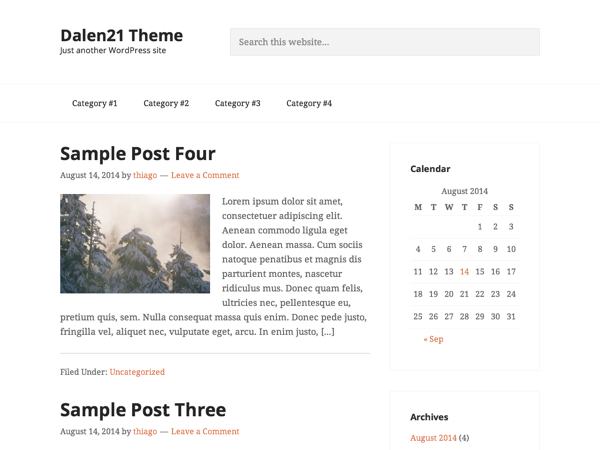
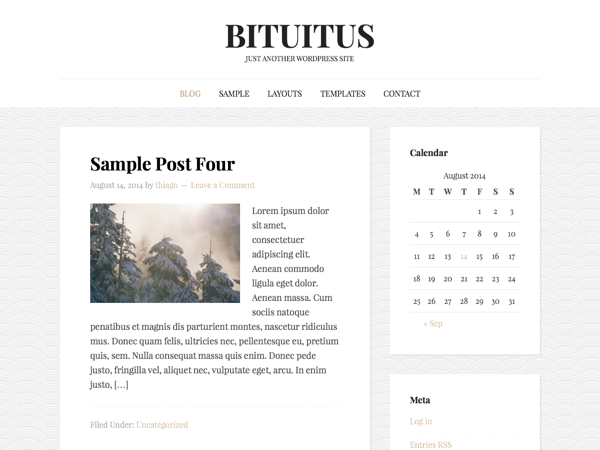
all styles completely done

diff --git a/style.css b/style.css
@@ -16,6 +16,214 @@
  * License URI: http://www.gnu.org/licenses/gpl-2.0.html
  */
 
+/* # Defaults
+---------------------------------------------------------------------------------------------------- */
+
 body {
     text-rendering: optimizeLegibility;
+}
+
+/* # Only Screen ≥ 568px
+---------------------------------------------------------------------------------------------------- */
+
+@media only screen and (min-width: 35.5em) {
+
+    /* ## Defaults
+    --------------------------------------------- */
+    body {
+
+    }
+}
+
+/* # Only Screen ≥ 768px
+---------------------------------------------------------------------------------------------------- */
+
+@media only screen and (min-width: 48em) {
+
+    /* ## Defaults
+    --------------------------------------------- */
+    body {
+        background: #F5F5F5 url("http://www.buzzblog.hercules-design.com/wp-content/themes/BUZZBLOG-theme/images/patterns/pattern1.png");
+        font-size: 18px;
+    }
+
+    .site-header,
+    .nav-primary,
+    .archive-description,
+    .author-box,
+    .entry,
+    .entry-comments,
+    .entry-pings,
+    .comment-respond,
+    .sidebar .widget,
+    .footer-widgets {
+        background: #FFF;
+    }
+
+    .site-header .wrap,
+    .nav-primary .wrap,
+    .sidebar .widget,
+    .footer-widgets {
+        border: none;
+    }
+
+    .nav-primary .wrap {
+        border-top: 1px solid #EEE;
+    }
+
+    .archive-description,
+    .author-box,
+    .entry,
+    .entry-comments,
+    .entry-pings,
+    .comment-respond,
+    .sidebar .widget {
+        -webkit-box-shadow: 3px 3px 1px rgba(0, 0, 0, 0.05);
+        -moz-box-shadow: 3px 3px 1px rgba(0, 0, 0, 0.05);
+        box-shadow: 3px 3px 1px rgba(0, 0, 0, 0.05);
+    }
+
+    .featured-content .entry,
+    .entry-comments .comment-respond {
+        box-shadow: none;
+    }
+
+    .archive-pagination li a {
+        background: #FFF;
+        opacity: 0.85;
+    }
+
+    /* ## Common Classes
+    --------------------------------------------- */
+    .archive-description,
+    .author-box {
+        border: 1px solid #EEE;
+        padding: 40px;
+    }
+
+    /* ## Entries
+    --------------------------------------------- */
+    .entry {
+        margin-bottom: 40px;
+        padding: 50px 60px;
+    }
+
+    /* ## Comments
+    --------------------------------------------- */
+    .entry-comments {
+        padding: 40px;
+    }
+
+    .entry-pings,
+    .comment-respond {
+        padding: 40px 40px 16px;
+    }
+
+    .entry-comments .comment-respond {
+        padding: 0;
+    }
+
+}
+
+/* # Only Screen ≥ 1024px
+---------------------------------------------------------------------------------------------------- */
+
+@media only screen and (min-width: 64em) {
+
+    /* ## Site Containers
+    --------------------------------------------- */
+    .site-inner,
+    .wrap {
+        margin: 0 auto;
+        max-width: 960px;
+        padding-left: 0;
+        padding-right: 0;
+    }
+
+    /* ## Column Widths and Positions
+    --------------------------------------------- */
+    /* ### Content */
+    .content {
+        float: right;
+        width: 620px;
+    }
+
+    .content-sidebar .content {
+        float: left
+    }
+
+    .full-width-content .content {
+        width: 100%
+    }
+
+    /* ### Primary Sidebar */
+    .sidebar-primary {
+        float: right;
+        width: 300px;
+    }
+
+    .sidebar-content .sidebar-primary {
+        float: left
+    }
+
+    /* ## Footer Widgets
+    --------------------------------------------- */
+    .footer-widgets-1,
+    .footer-widgets-2,
+    .footer-widgets-3 {
+        width: 300px
+    }
+
+    .footer-widgets-1 {
+        margin-right: 30px
+    }
+
+    .footer-widgets-1,
+    .footer-widgets-2 {
+        float: left
+    }
+
+    .footer-widgets-3 {
+        float: right
+    }
+}
+
+/* # Only Screen ≥ 1280px
+---------------------------------------------------------------------------------------------------- */
+@media only screen and (min-width: 80em) {
+
+    /* ## Site Containers
+    --------------------------------------------- */
+    .site-inner,
+    .wrap {
+        max-width: 1200px
+    }
+
+    /* ## Column Widths and Positions
+    --------------------------------------------- */
+    .content-sidebar-sidebar .content-sidebar-wrap,
+    .sidebar-content-sidebar .content-sidebar-wrap,
+    .sidebar-sidebar-content .content-sidebar-wrap {
+        width: 980px
+    }
+
+    .content {
+        width: 800px
+    }
+
+    .sidebar-primary {
+        width: 360px
+    }
+
+    /* ## Footer Widgets
+    --------------------------------------------- */
+    .footer-widgets-1,
+    .footer-widgets-2,
+    .footer-widgets-3 {
+        width: 340px
+    }
+
+    .footer-widgets-1 {
+        margin-right: 60px
+    }
 }

diff --git a/lib/assets/css/base.css b/lib/assets/css/base.css
@@ -596,20 +596,34 @@ img.alignright,
 /* ## Featured Content
 --------------------------------------------- */
 
-/*.featured-content .entry { border-bottom: 2px solid #E3E3E3; margin-bottom: 20px; padding: 0 0 24px; }*/
-/*.featured-content .entry-title { font-size: 20px }*/
-/*.sidebar .featured-content .entry-meta, .footer-widgets .featured-content .entry-meta { margin-bottom: 10px }*/
-/*.sidebar .featured-content article:last-child { margin-bottom: 0 }*/
+.featured-content .entry {
+    border-bottom: 1px dashed #E9E9E9;
+    margin-bottom: 20px;
+    padding: 0 0 24px;
+}
+
+.featured-content .entry-title {
+    font-size: 20px
+}
+
+.sidebar .featured-content .entry-meta,
+.footer-widgets .featured-content .entry-meta {
+    margin-bottom: 10px
+}
+
+.sidebar .featured-content article:last-child {
+    margin-bottom: 0
+}
 
 /* # Site Header
 ---------------------------------------------------------------------------------------------------- */
 
 .site-header {
-    border-bottom: 1px solid #EEE;
     text-align: center;
 }
 
 .site-header .wrap {
+    border-bottom: 1px solid #EEE;
     padding: 20px 5%
 }
 
@@ -726,6 +740,9 @@ img.alignright,
 
 .nav-primary {
     text-transform: uppercase;
+}
+
+.nav-primary .wrap {
     border-bottom: 1px solid #EEE
 }
 
@@ -920,7 +937,7 @@ li.comment li.comment {
 }
 
 .comment-content ul > li {
-    list-style-type: disc
+    list-style-type: circle;
 }
 
 .comment-content ol ol,
